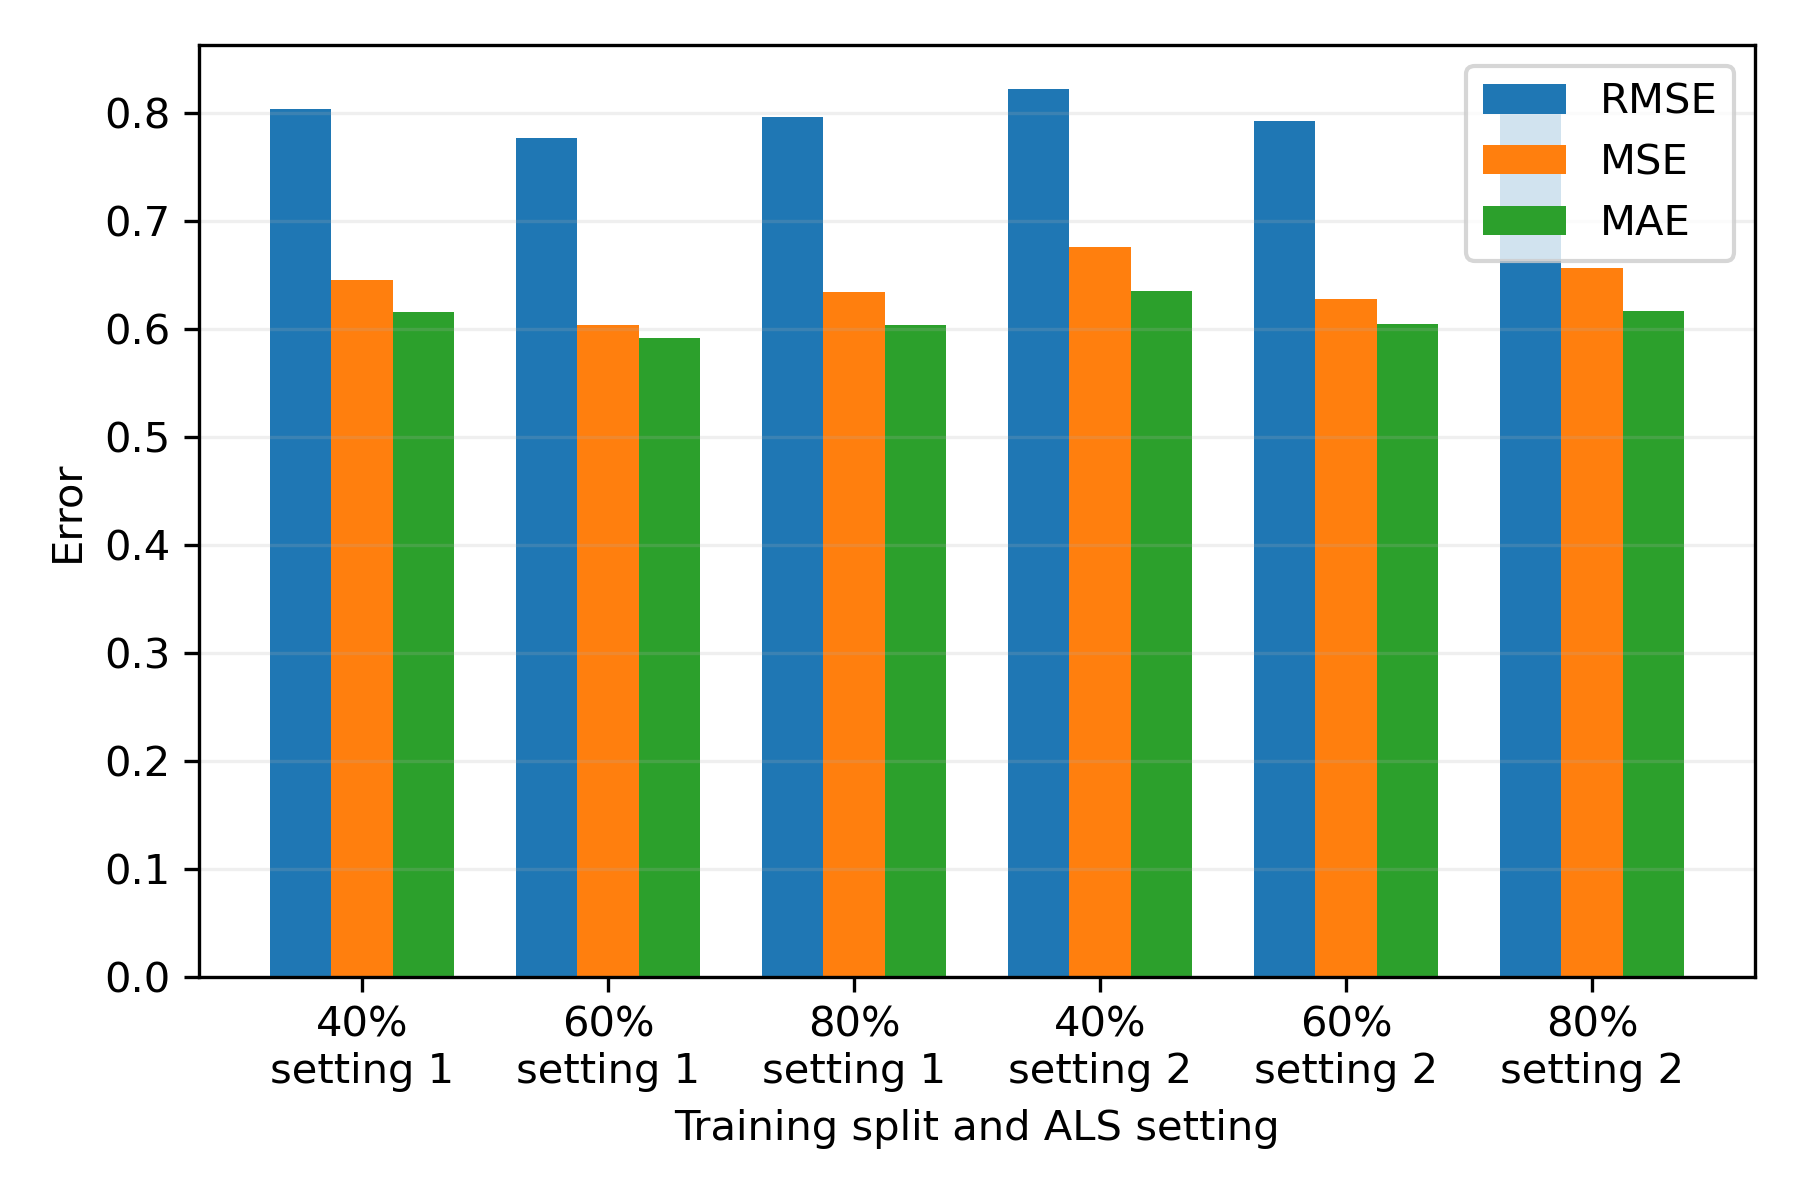
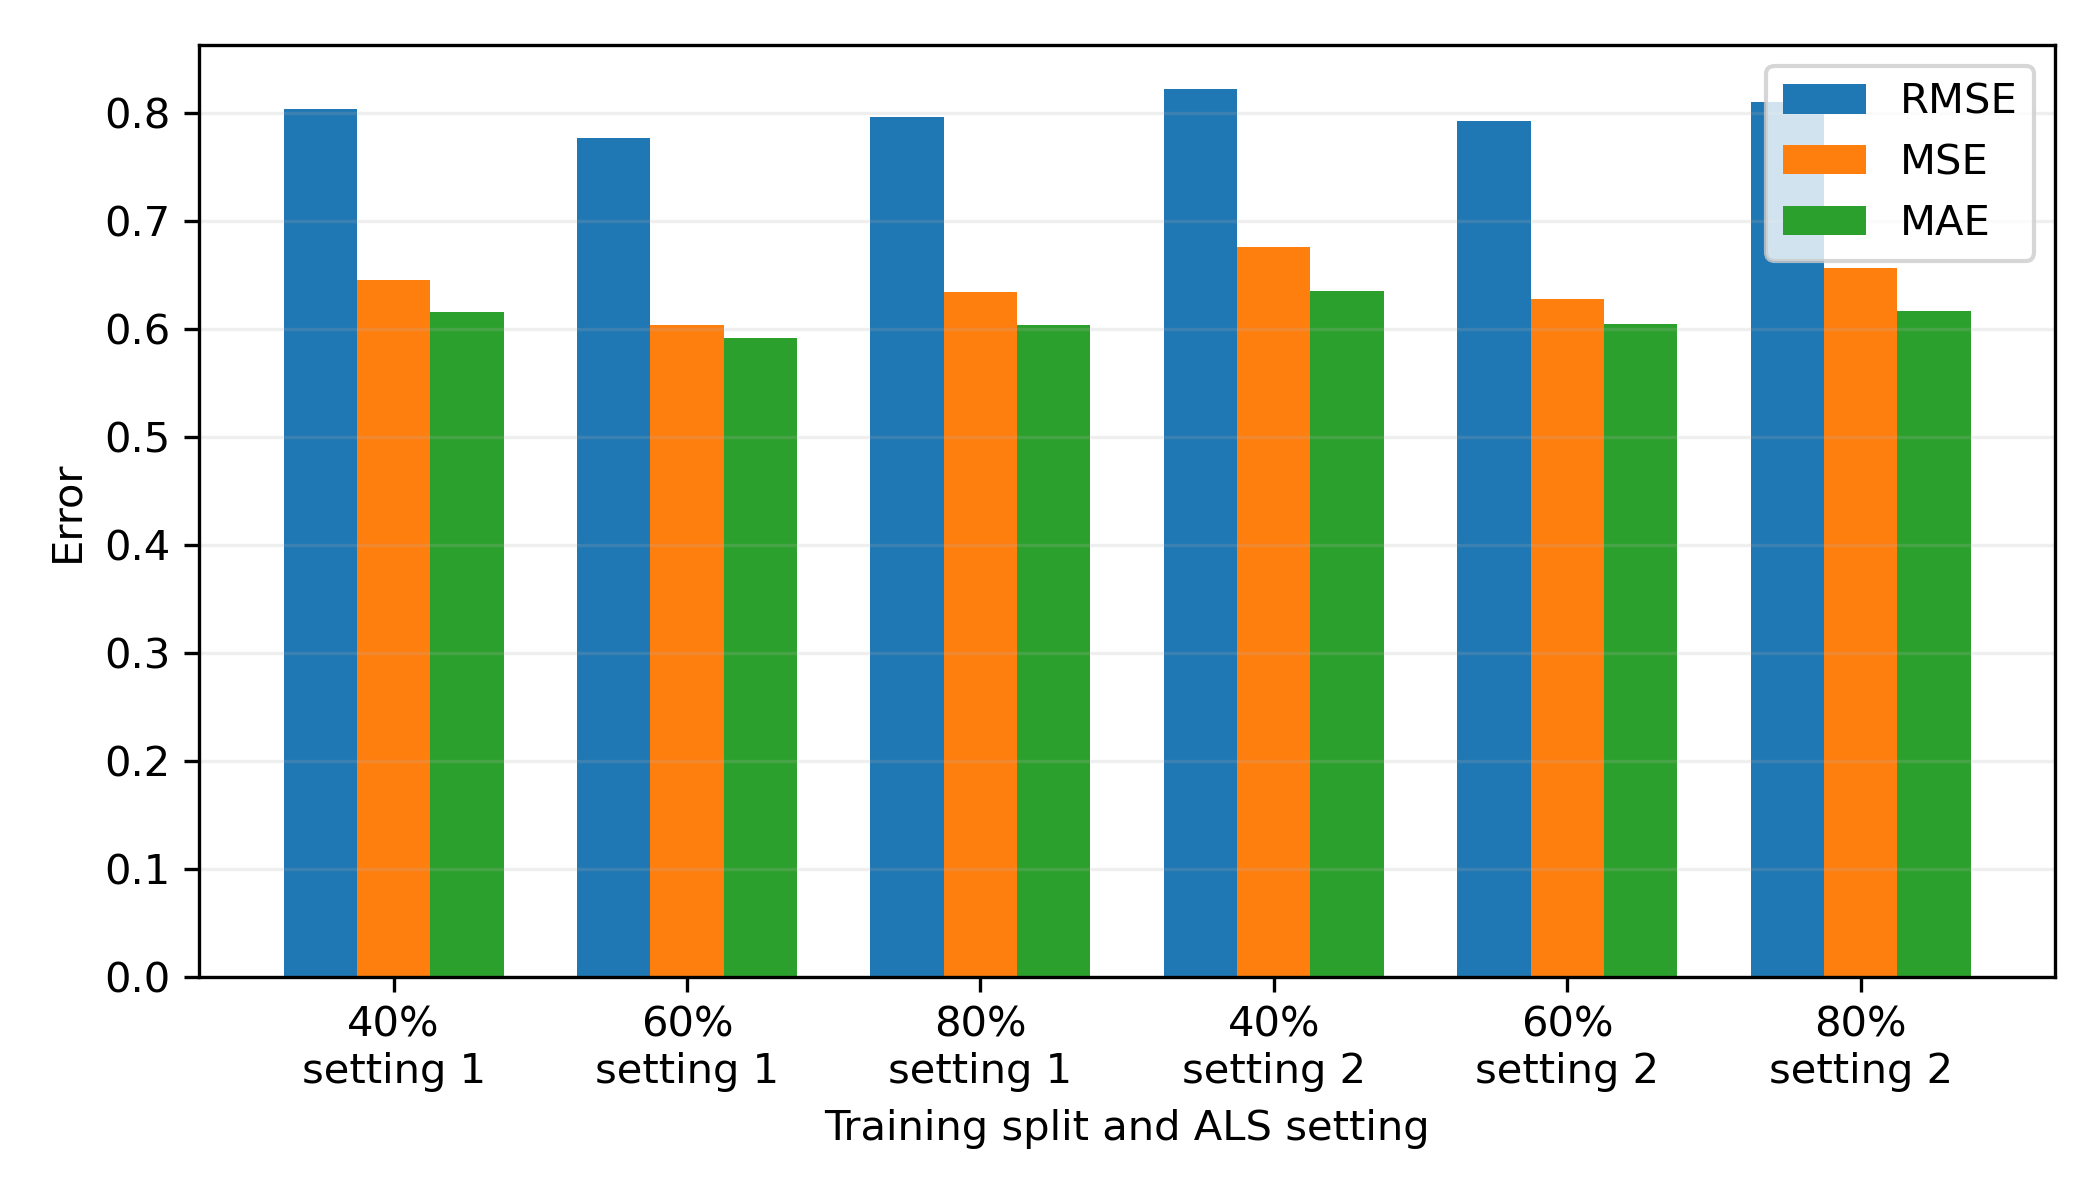
Assignment Q4: change cluster size plot to line / scatter

diff --git a/IJT25GM-COM6012-2026/Q4/Q4_code.py b/IJT25GM-COM6012-2026/Q4/Q4_code.py
@@ -182,7 +182,7 @@ metrics = ['RMSE', 'MSE', 'MAE']
 x = np.arange(len(labels))
 width = 0.25
 
-plt.figure(figsize=(6, 4))
+plt.figure(figsize=(7, 4))
 
 # Plot one bar group for each metric
 for i, metric in enumerate(metrics):
@@ -191,7 +191,8 @@ for i, metric in enumerate(metrics):
         x + (i - 1) * width,
         metric_values,
         width,
-        label=metric
+        label=metric,
+        alpha=1.0
     )
 
 plt.xticks(x, labels)
@@ -268,31 +269,21 @@ cluster_df['training_split'] = (
 
 cluster_df = cluster_df.sort_values(['train_fraction', 'rank'])
 
-# Reshape so rows = splits, columns = ranks
-plot_df = cluster_df.pivot(
-    index='training_split',
-    columns='rank',
-    values='cluster_size'
-)
+plt.figure(figsize=(7, 4))
 
-x = np.arange(len(plot_df.index))
-width = 0.15
-
-plt.figure(figsize=(6, 4))
-
-for i, rank in enumerate(plot_df.columns):
-    plt.bar(
-        x + (i - 2) * width,
-        plot_df[rank],
-        width,
-        label=f'Rank {rank}'
+for training_split in ['40%', '60%', '80%']:
+    split_data = cluster_df[cluster_df['training_split'] == training_split]
+    plt.plot(
+        split_data['rank'],
+        split_data['cluster_size'],
+        marker='o',
+        label=split
     )
 
-plt.xticks(x, plot_df.index)
-plt.xlabel('Training Split')
+plt.xlabel('Cluster Rank')
 plt.ylabel('Cluster Size')
-plt.legend()
-plt.grid(axis='y', alpha=0.2)
+plt.legend(title='Training Split')
+plt.grid(alpha=0.2)
 plt.tight_layout()
 plt.savefig('Q4_fig2.png', dpi=300)
 plt.close()

diff --git a/IJT25GM-COM6012-2026/Q2/Q2_code.py b/IJT25GM-COM6012-2026/Q2/Q2_code.py
@@ -190,7 +190,7 @@ for reg_param in reg_params:
     results.append((reg_param, mean_mse, std_mse))
 
     print(f"  Mean validation MSE = {mean_mse:.2f}")
-    print(f"  Standard deviation = {std_mse:.2f}\n")
+    print(f"  Standard deviation = {std_mse:.2f}")
 
 reg_param_values = [x[0] for x in results]
 mean_mse_values = [x[1] for x in results]
@@ -329,7 +329,7 @@ for reg_param in reg_params:
         results.append((reg_param, elastic_net_param, mean_accuracy, std_accuracy))
 
         print(f"  Mean validation accuracy = {mean_accuracy:.4f}")
-        print(f"  Standard deviation = {std_accuracy:.4f}\n")
+        print(f"  Standard deviation = {std_accuracy:.4f}")
 
 # Plot mean validation accuracy for all combinations of regParam and elasticNetParam
 plt.figure(figsize=(6, 4))
